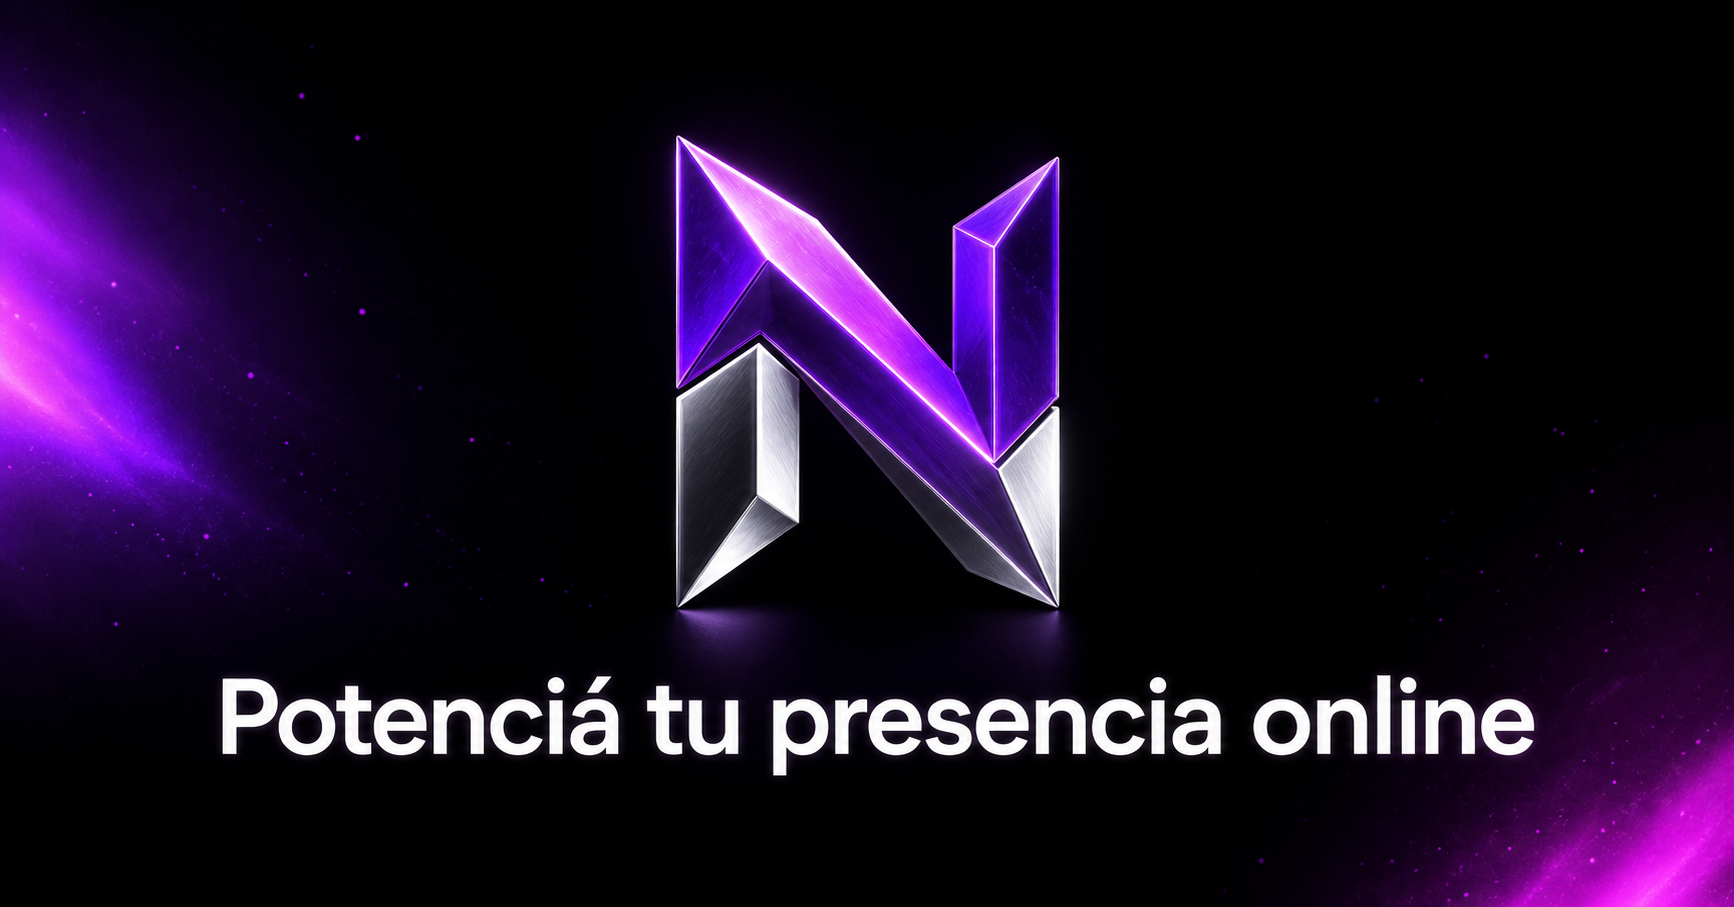
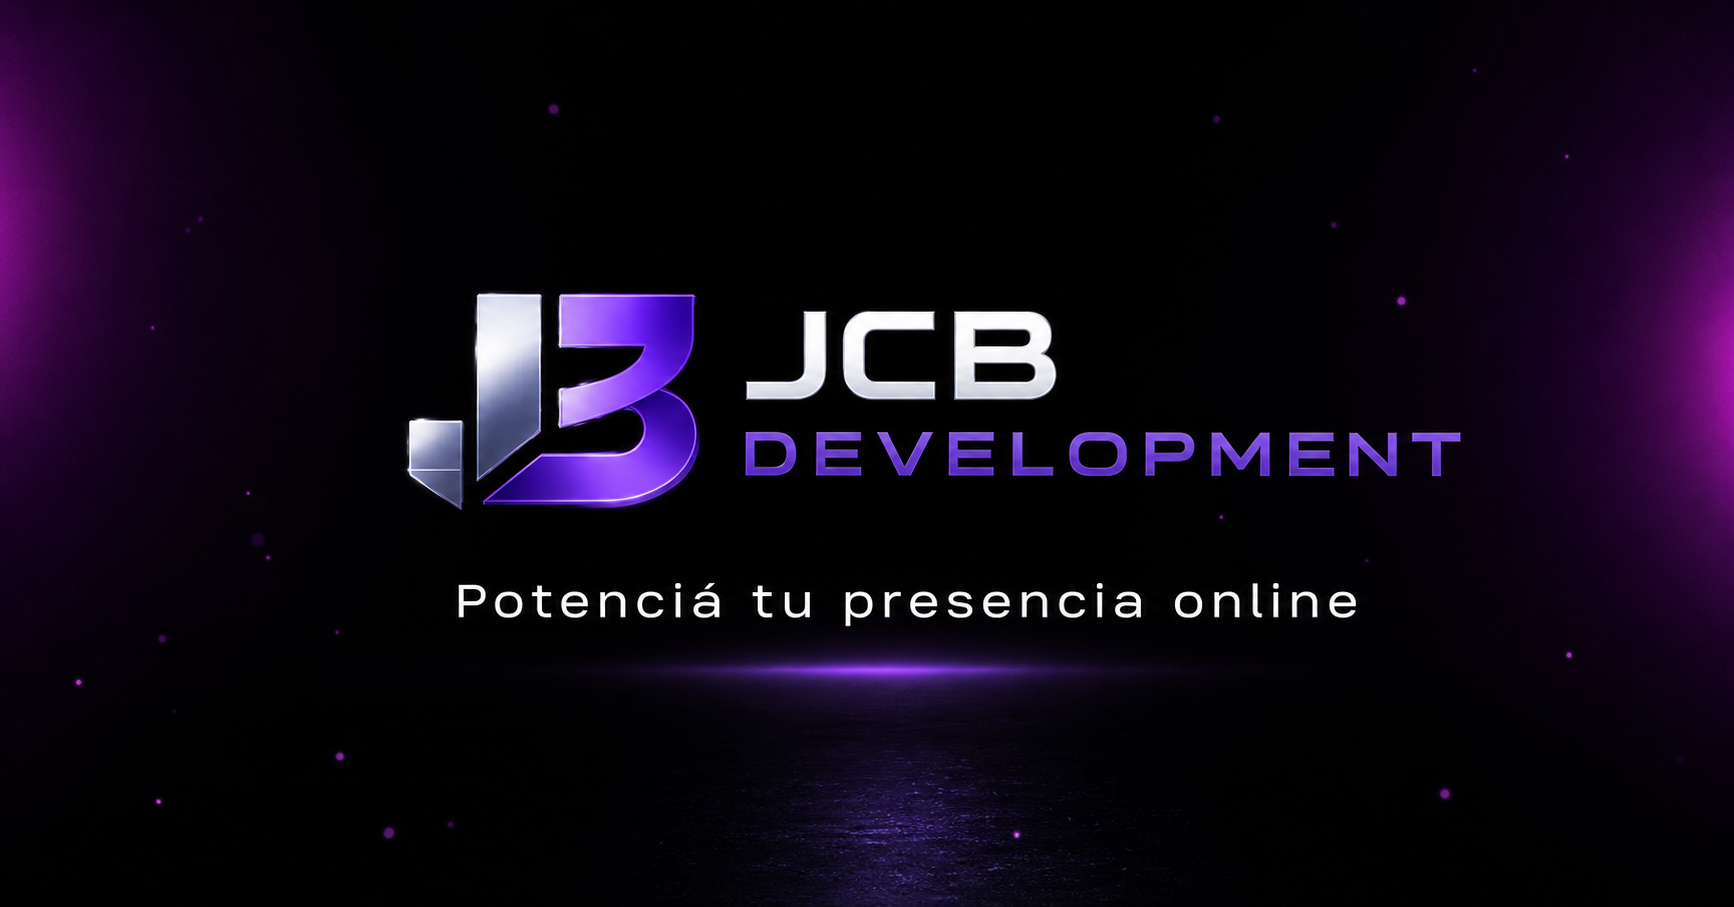
Aplicar identidad JCB Development

diff --git a/app/globals.css b/app/globals.css
@@ -8,7 +8,8 @@ a { color:inherit; text-decoration:none; }
 button { color:inherit; font:inherit; }
 .nav { position:absolute; z-index:20; top:0; left:0; width:100%; height:82px; padding:0 6.5vw; display:flex; align-items:center; justify-content:space-between; }
 .brand { display:flex; align-items:center; gap:10px; letter-spacing:.16em; font-size:13px; }
-.mini-logo,.contact-logo { display:grid; place-items:center; width:30px; height:30px; transform:rotate(-8deg); background:linear-gradient(145deg,#ad6cff,#6118ff 46%,#eee 48%,#85858d); clip-path:polygon(15% 0,100% 0,84% 26%,46% 26%,84% 49%,84% 100%,57% 100%,15% 74%); font-weight:900; color:white; text-shadow:0 1px 5px #000; }
+.brand-logo { width:190px; height:55px; position:relative; overflow:hidden; display:block; }
+.brand-logo img { position:absolute; width:145%; max-width:none; height:auto; left:50%; top:50%; transform:translate(-50%,-50%); }
 .nav-links { position:absolute; left:50%; transform:translateX(-50%); display:flex; gap:38px; font-size:12px; color:#b8b5bf; }
 .nav-links a:hover { color:white; }
 .nav-contact,.glow-button { border:1px solid rgba(255,255,255,.12); background:linear-gradient(110deg,#7132dc,#a126d5); box-shadow:0 0 32px rgba(137,48,255,.32),inset 0 1px 0 rgba(255,255,255,.25); border-radius:8px; font-size:12px; font-weight:750; padding:12px 19px; }
@@ -24,12 +25,8 @@ button { color:inherit; font:inherit; }
 @keyframes blink { 50%{opacity:.15;transform:scale(.5)} }
 .hero-content { position:relative; z-index:2; width:min(1160px,88vw); padding:100px 0 30px; display:grid; grid-template-columns:minmax(0,1.25fr) minmax(320px,.75fr); align-items:center; gap:7vw; }
 .hero-primary { text-align:center; display:flex; flex-direction:column; align-items:center; }
-.hero-logo { width:190px; height:190px; position:relative; margin-bottom:24px; filter:drop-shadow(0 22px 28px rgba(75,21,150,.34)); animation:float 5s ease-in-out infinite; }
+.hero-logo { width:min(500px,100%); height:150px; position:relative; margin-bottom:16px; filter:drop-shadow(0 22px 28px rgba(75,21,150,.34)); animation:float 5s ease-in-out infinite; }
 @keyframes float { 50%{transform:translateY(-10px)} }
-.hero-logo span { position:absolute; display:block; }
-.logo-top { width:62px; height:190px; left:64px; top:0; background:linear-gradient(150deg,#c17aff 2%,#6b16ff 43%,#d7d7dc 47%,#70707a 100%); clip-path:polygon(0 6%,34% 0,100% 91%,66% 100%); transform:rotate(-2deg); }
-.logo-left { width:48px; height:155px; left:27px; top:20px; background:linear-gradient(115deg,#f8f8fa,#a5a5ae 62%,#3d3c45); clip-path:polygon(13% 0,100% 9%,87% 100%,0 91%); }
-.logo-right { width:48px; height:155px; right:27px; top:15px; background:linear-gradient(145deg,#b760ff,#6212ed 60%,#270840); clip-path:polygon(13% 9%,100% 0,87% 91%,0 100%); }
 .eyebrow,.section-label { font-size:9px; letter-spacing:.3em; font-weight:800; color:#a878ff; margin:0 0 16px; }
 .hero h1 { font-size:clamp(43px,5.3vw,72px); line-height:1; letter-spacing:-.055em; margin:0; }
 .hero h1 span,.section h2 span { color:transparent; background:linear-gradient(90deg,#9a54ff,#d642ef); background-clip:text; -webkit-background-clip:text; }
@@ -40,7 +37,7 @@ button { color:inherit; font:inherit; }
 .scroll-cue b { font-size:19px; font-weight:300; }
 .hero-contact { text-align:left; padding:38px 34px; border:1px solid rgba(255,255,255,.12); border-radius:18px; background:linear-gradient(145deg,rgba(19,14,27,.84),rgba(8,7,11,.74)); box-shadow:0 28px 90px rgba(0,0,0,.45),inset 0 1px 0 rgba(255,255,255,.08); backdrop-filter:blur(18px); position:relative; overflow:hidden; }
 .hero-contact:before { content:""; position:absolute; width:250px; height:180px; right:-110px; top:-90px; background:#8e3cff; opacity:.18; filter:blur(60px); }
-.hero-contact .contact-logo { width:52px; height:52px; font-size:19px; margin:0 0 28px; }
+.hero-contact .contact-logo { width:245px; height:66px; margin:0 0 28px; }
 .hero-contact h2 { font-size:clamp(28px,3vw,42px); line-height:1.06; letter-spacing:-.045em; margin:0; position:relative; }
 .hero-contact h2 span { color:transparent; background:linear-gradient(90deg,#9a54ff,#d642ef); background-clip:text; -webkit-background-clip:text; }
 .hero-contact>p:not(.section-label) { color:#8c8792; font-size:12px; line-height:1.7; margin:22px 0 26px; }
@@ -80,16 +77,16 @@ button { color:inherit; font:inherit; }
 .steps { display:grid; grid-template-columns:repeat(4,1fr); max-width:1120px; margin:80px auto 0; position:relative; }
 .steps:before { content:"";position:absolute;top:52px;left:12%;right:12%;height:1px;background:linear-gradient(90deg,transparent,#7134be,#7134be,transparent)}
 .step { text-align:center;padding:0 25px;position:relative}.step>span{font-size:9px;color:#655e6c;letter-spacing:.15em}.step-dot{width:12px;height:12px;border:3px solid #050407;border-radius:50%;background:#a24cff;box-shadow:0 0 14px #8139e8;margin:35px auto}.step h3{font-size:17px}.step p{font-size:11px;line-height:1.7;color:#77727e}
-.contact-logo { width:68px;height:68px;font-size:25px;margin-bottom:32px;filter:drop-shadow(0 10px 30px rgba(130,50,255,.5))}
+.contact-logo { filter:drop-shadow(0 10px 30px rgba(130,50,255,.5)) }
 .large{padding:17px 24px}
-footer { height:90px;border-top:1px solid var(--line);display:flex;align-items:center;justify-content:space-between;padding:0 7vw;color:#65616b;font-size:9px;letter-spacing:.12em}footer .brand{color:#aaa6b0}footer>a:last-child{font-size:10px}
+footer { height:90px;border-top:1px solid var(--line);display:flex;align-items:center;justify-content:space-between;padding:0 7vw;color:#65616b;font-size:9px;letter-spacing:.12em}.footer-logo{width:170px;height:48px}footer>a:last-child{font-size:10px}
 @media(max-width:800px){
   .nav{padding:0 22px}.nav-contact{display:none}.menu-button{display:block}.menu-button span{display:block;height:1px;background:white;margin:7px 0}
   .nav-links{display:none;position:absolute;top:72px;left:20px;right:20px;transform:none;background:#0d0b12;border:1px solid var(--line);border-radius:10px;padding:22px;flex-direction:column}.nav-links.open{display:flex}
-  .hero{height:auto;min-height:100vh}.hero-content{width:min(680px,calc(100% - 44px));grid-template-columns:1fr;padding:120px 0 70px;gap:55px}.hero-logo{width:150px;height:150px;transform:scale(.8);margin-bottom:0}.hero h1{font-size:45px}.hero-copy{font-size:13px}.hero-contact{width:100%;text-align:center}.hero-contact .contact-logo{margin:0 auto 28px}
+  .hero{height:auto;min-height:100vh}.hero-content{width:min(680px,calc(100% - 44px));grid-template-columns:1fr;padding:120px 0 70px;gap:55px}.hero-logo{width:min(450px,100%);height:130px;margin-bottom:0}.hero h1{font-size:45px}.hero-copy{font-size:13px}.hero-contact{width:100%;text-align:center}.hero-contact .contact-logo{margin:0 auto 28px}
   .section{padding:90px 22px}.plans{grid-template-columns:1fr;max-width:430px}.plan-card{min-height:0}.showcase-grid{grid-template-columns:1fr}.mock-window{height:290px;padding:28px}
   .steps{grid-template-columns:1fr 1fr;gap:60px 0}.steps:before{display:none}.step-dot{margin:20px auto}
   footer{padding:0 22px}footer>span{display:none}
 }
-@media(max-width:480px){.hero h1{font-size:39px}.hero-logo{margin-left:-20px}.steps{grid-template-columns:1fr}.contact h2{font-size:38px}.showcase-grid{gap:45px}.mock-window{height:250px;padding:22px}.mock-content{height:190px}}
+@media(max-width:480px){.brand-logo{width:150px;height:44px}.hero h1{font-size:39px}.hero-logo{width:100%;height:100px}.hero-contact .contact-logo{width:210px;height:58px}.steps{grid-template-columns:1fr}.showcase-grid{gap:45px}.mock-window{height:250px;padding:22px}.mock-content{height:190px}}
 @media(prefers-reduced-motion:reduce){*{scroll-behavior:auto!important;animation:none!important;transition:none!important}}

diff --git a/app/page.tsx b/app/page.tsx
@@ -21,8 +21,8 @@ export default function Home() {
   return (
     <main>
       <nav className="nav">
-        <a className="brand" href="#inicio" aria-label="Norte Web, inicio">
-          <span className="mini-logo">N</span><b>NORTE</b>
+        <a className="brand brand-logo" href="#inicio" aria-label="JCB Development, inicio">
+          <img src="/jcb-development.png" alt="JCB Development" />
         </a>
         <div className={`nav-links ${menuOpen ? "open" : ""}`}>
           <a href="#modelos" onClick={() => setMenuOpen(false)}>Modelos</a>
@@ -41,7 +41,7 @@ export default function Home() {
         <div className="stars" aria-hidden="true"><i /><i /><i /><i /><i /><i /></div>
         <div className="hero-content">
           <div className="hero-primary">
-            <div className="hero-logo" aria-label="Norte"><span className="logo-top" /><span className="logo-left" /><span className="logo-right" /></div>
+            <div className="hero-logo brand-logo"><img src="/jcb-development.png" alt="JCB Development" /></div>
             <p className="eyebrow">DISEÑO · DESARROLLO · RESULTADOS</p>
             <h1>Potenciá tu <span>presencia online</span></h1>
             <p className="hero-copy">Creamos páginas web modernas, rápidas y pensadas para convertir visitantes en clientes.</p>
@@ -49,7 +49,7 @@ export default function Home() {
             <a className="scroll-cue" href="#modelos"><span>Explorar</span><b>↓</b></a>
           </div>
           <aside className="hero-contact" id="contacto">
-            <div className="contact-logo">N</div>
+            <div className="contact-logo brand-logo"><img src="/jcb-development.png" alt="JCB Development" /></div>
             <p className="section-label">EMPECEMOS</p>
             <h2>¿Tenés una idea?<br /><span>Hagámosla despegar.</span></h2>
             <p>Contanos qué necesitás y recibí un presupuesto personalizado sin compromiso.</p>
@@ -111,7 +111,7 @@ export default function Home() {
       </section>
 
       <footer>
-        <a className="brand" href="#inicio"><span className="mini-logo">N</span><b>NORTE</b></a>
+        <a className="brand brand-logo footer-logo" href="#inicio" aria-label="JCB Development, inicio"><img src="/jcb-development.png" alt="JCB Development" /></a>
         <span>DISEÑO Y DESARROLLO WEB · 2026</span>
         <a href="#inicio">Volver arriba ↑</a>
       </footer>

diff --git a/app/layout.tsx b/app/layout.tsx
@@ -12,13 +12,13 @@ export async function generateMetadata(): Promise<Metadata> {
   const ogImage = `${protocol}://${host}/og.png`;
 
   return {
-    title: "Norte Studio — Diseño y desarrollo web",
+    title: "JCB Development — Diseño y desarrollo web",
     description: "Webs a medida para marcas que quieren destacarse, vender más y crecer.",
     icons: { icon: "/favicon.svg", shortcut: "/favicon.svg" },
     openGraph: {
-      title: "Norte Studio — Diseño y desarrollo web",
+      title: "JCB Development — Diseño y desarrollo web",
       description: "Webs a medida para marcas que quieren destacarse, vender más y crecer.",
-      images: [{ url: ogImage, width: 1732, height: 908, alt: "Norte Studio" }],
+      images: [{ url: ogImage, width: 1732, height: 908, alt: "JCB Development" }],
       locale: "es_AR",
       type: "website",
     },
